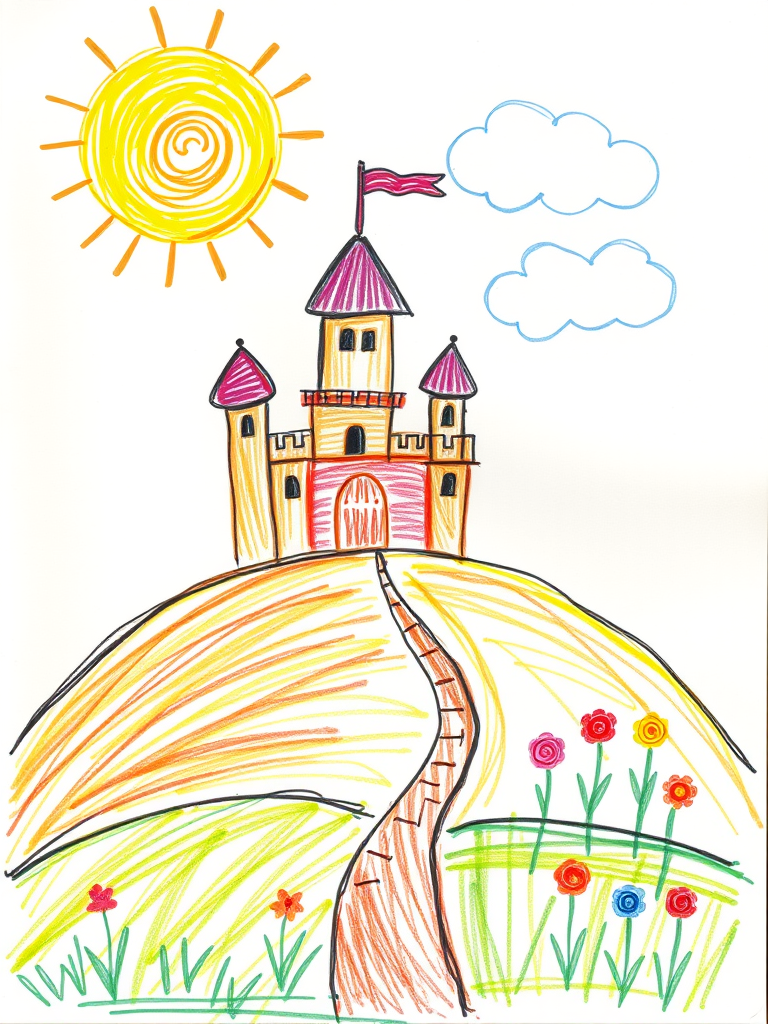
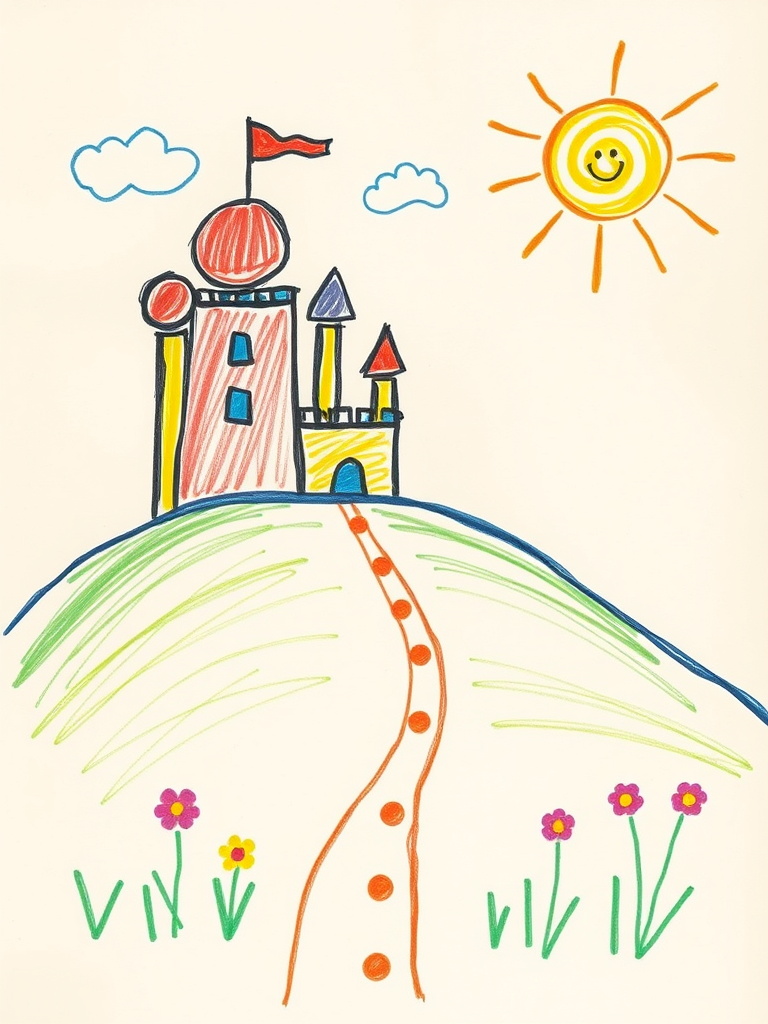
fix(frontend): drop HowItWorks mask gradient, redraw how-3-5-light borderless
Remove the radial-gradient mask on .illustWrap (keeps illustration with
clean rectangular edges, no fade). Regenerate how-3-5-light.png with an
explicit no-border / full-bleed-paper prompt addendum and a fresh seed
so the previous black edge artifact is gone.

diff --git a/frontend/src/components/home/HowItWorks.module.css b/frontend/src/components/home/HowItWorks.module.css
@@ -127,8 +127,6 @@
   aspect-ratio: 3/4;
   align-self: start;
   margin-top: -60px;
-  -webkit-mask-image: radial-gradient(ellipse at center, #000 55%, transparent 95%);
-          mask-image: radial-gradient(ellipse at center, #000 55%, transparent 95%);
 }
 
 .illustQuill {